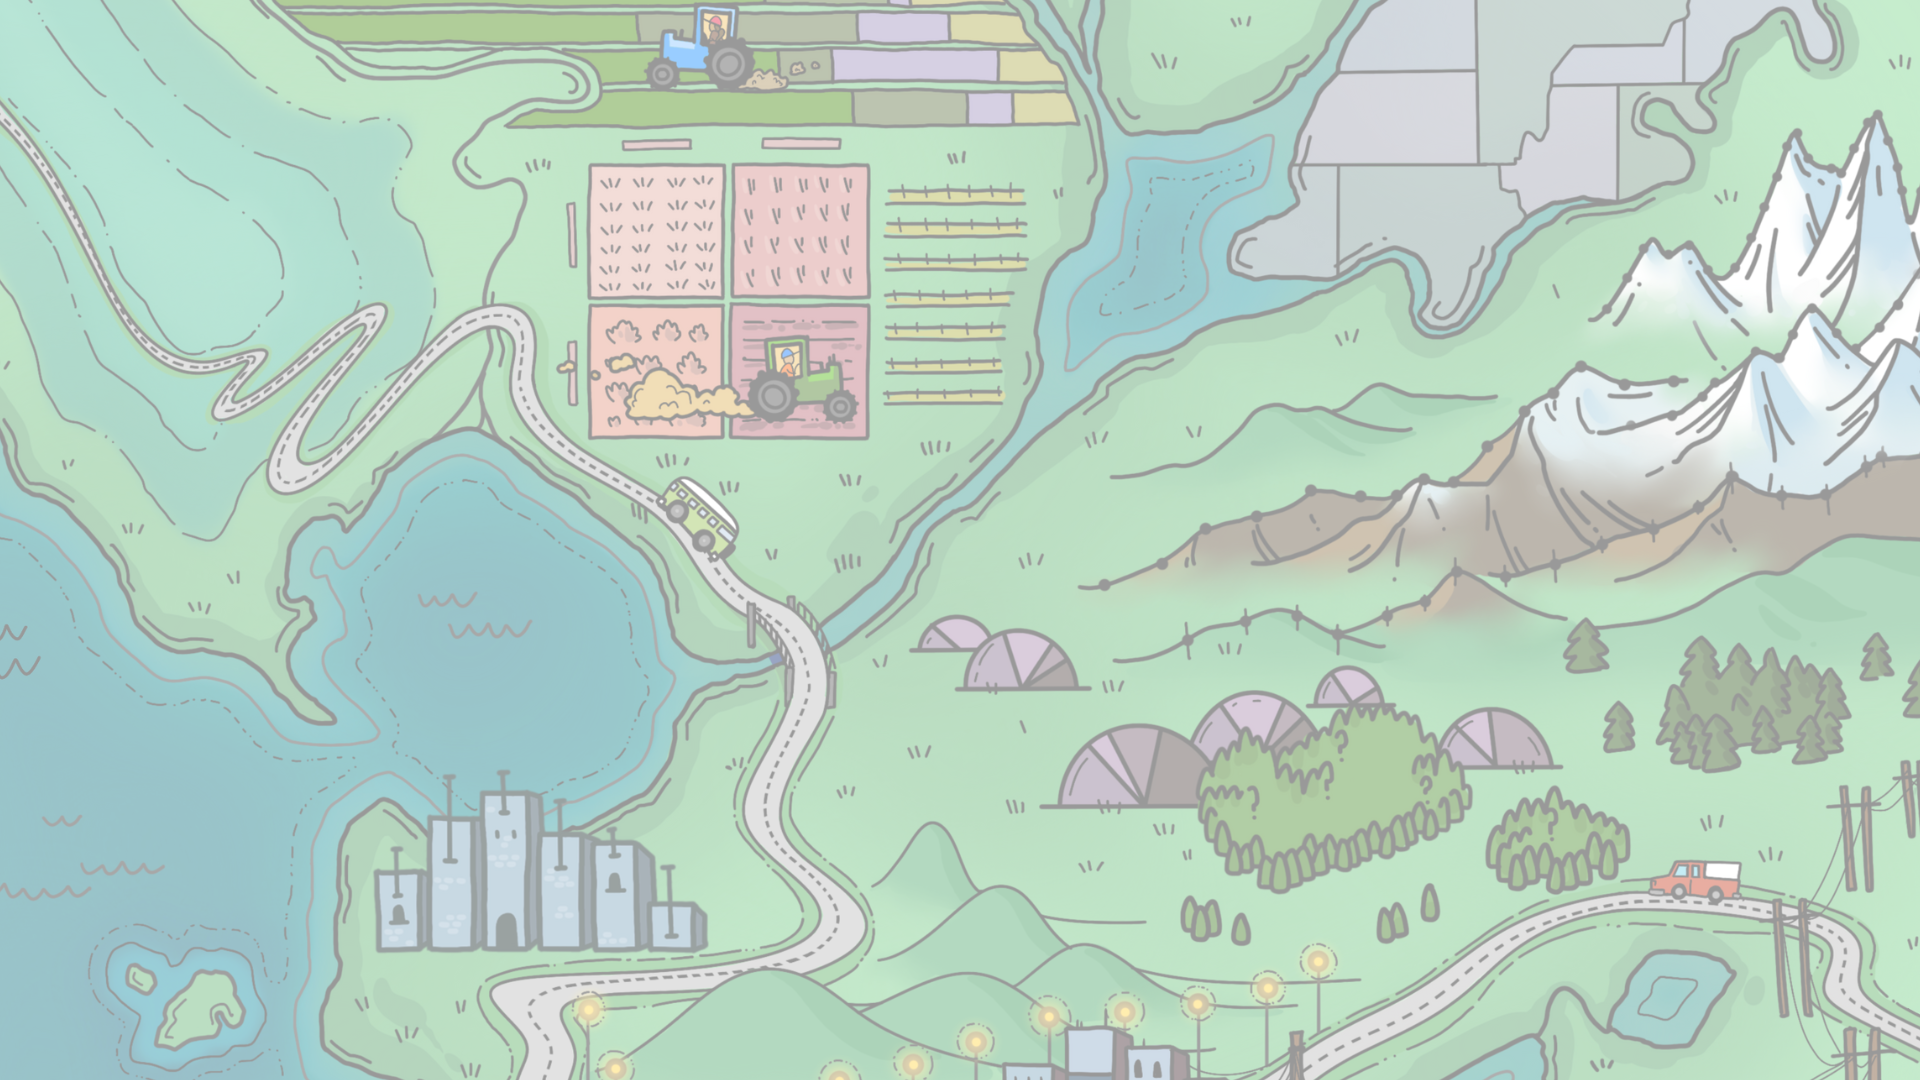
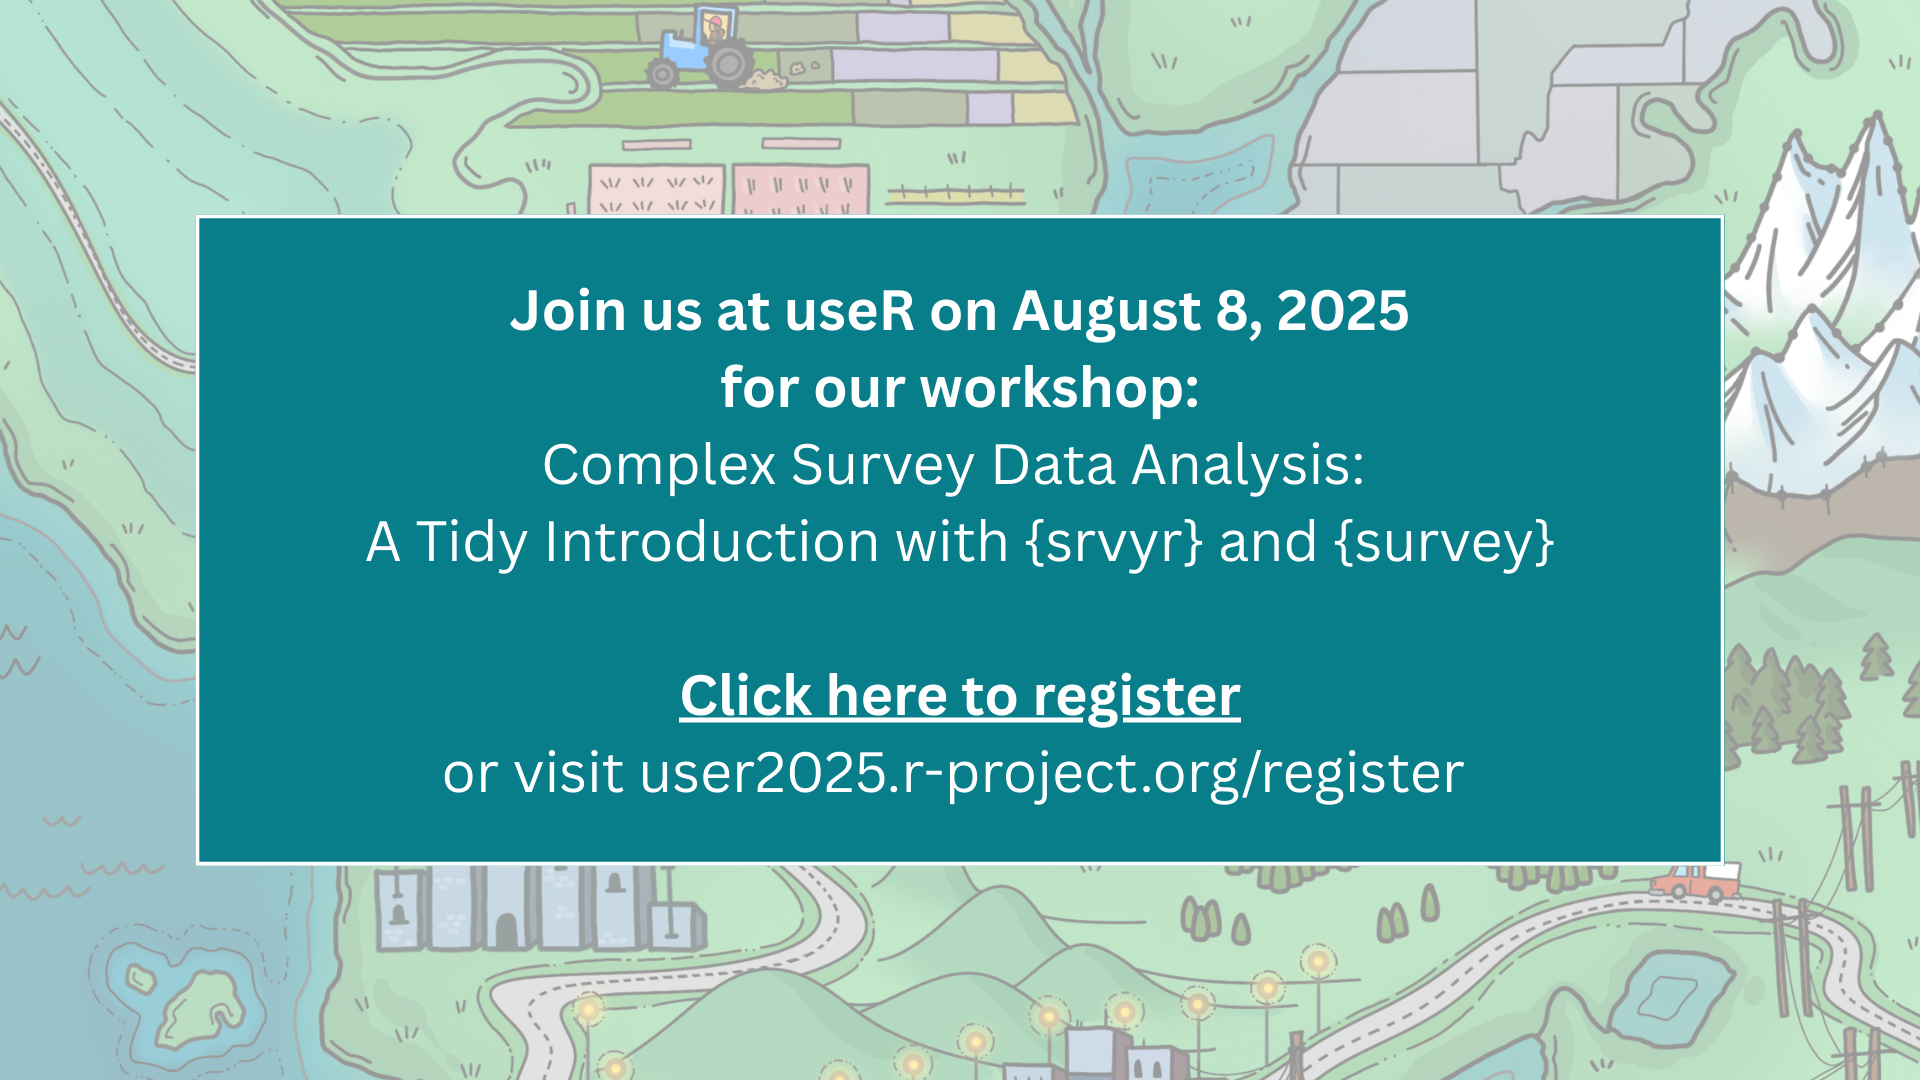
Edit header image

diff --git a/assets/hero-image.html b/assets/hero-image.html
@@ -1,4 +1,8 @@
 <link href="style.css" rel="stylesheet">
-<div class="hero-image-container"> 
-  <img class= "hero-image" src="images/header.png">
-</div>
+<a href="https://user2025.r-project.org/register">
+  <div class="hero-image-container"> 
+    <img class="hero-image" src="images/header.png" alt="Join us at useR on August 8, 2025 for our workshop:
+Complex Survey Data Analysis: A Tidy Introduction with {srvyr} and {survey}. Click here to register
+user2025.r-project.org/register">
+  </div>
+</a>
